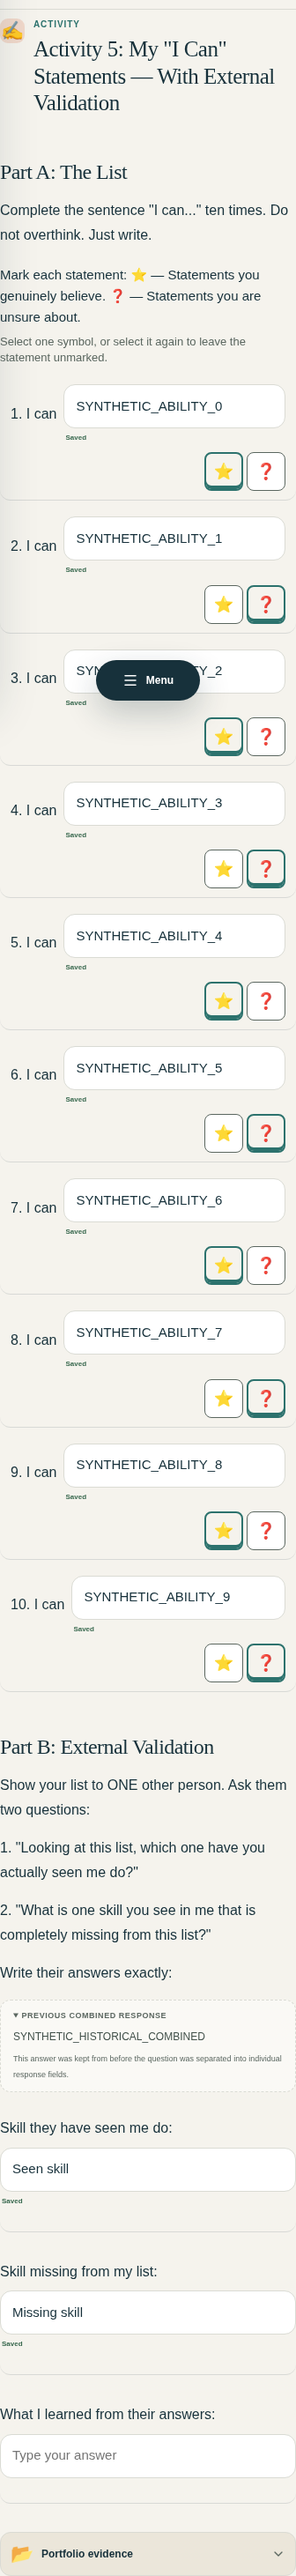
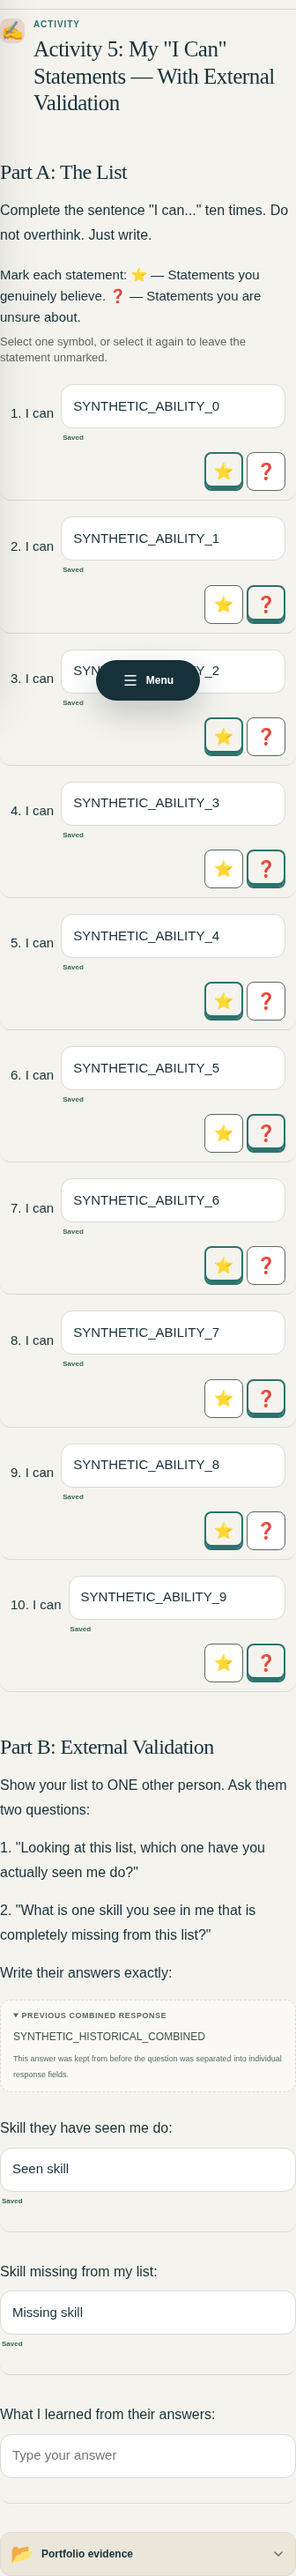
Record final scaling, accessibility and authenticated staging verification

diff --git a/docs/learner-hardening/VERIFICATION.md b/docs/learner-hardening/VERIFICATION.md
@@ -1,14 +1,14 @@
 # Proposed learner workbook hardening — verification and acceptance record
 
-Implementation: `7dbfb1b7851f4e2f1fa3745b754521ad69320a03` (semantic mapping completed at `87ed1bd`), based on merged `main` `ab52273eae7d5d459c77e30a9d7bfdea8d8540ff`. PR: [#91](https://github.com/PDthePlug/Applied-Commerce-/pull/91). This record distinguishes implementation verification from owner curriculum acceptance. No production application merge or deployment has been performed.
+Implementation: `b59dec5794117bf02dc22d4464e365112ea8ac17` (semantic mapping completed at `87ed1bd`), based on merged `main` `ab52273eae7d5d459c77e30a9d7bfdea8d8540ff`. PR: [#91](https://github.com/PDthePlug/Applied-Commerce-/pull/91). This record distinguishes implementation verification from owner curriculum acceptance. No production application merge or deployment has been performed.
 
 ## Coverage and review
 
 The [interaction inventory](interaction-inventory.json) covers all 399 effective reader units and 20,742 blocks. The runtime verifier independently confirms 395 lessons, four assessments and all 20,766 original compiled blocks. These counts have different scopes: the unchanged Grade 9 Term 2 reader normalisation removes editorial metadata before display. No source blocks were removed by this change.
 
-The [defect register](defect-register.json) contains 1,220 findings, including the unresolved editorial cases. It records source text, original IDs/index, grade/term/lesson, route, classification, severity, correction, response impact and review outcome. Findings can overlap at one block; their count is not a count of defective lessons. The [wrap register](wrap-coverage.json) includes all 395 lesson IDs, source references/fingerprints, original closing disposition, placement and next lesson. All 395 drafts have different takeaways, manually drafted against the source concepts/objectives. The shared component has no generic-copy fallback. Four assessments retain their assessment flow without a lesson wrap.
+The [defect register](defect-register.json) contains 1,221 findings, including the unresolved editorial cases. It records source text, original IDs/index, grade/term/lesson, route, classification, severity, correction, response impact and review outcome. Findings can overlap at one block; their count is not a count of defective lessons. The [wrap register](wrap-coverage.json) includes all 395 lesson IDs, source references/fingerprints, original closing disposition, placement and next lesson. All 395 drafts have different takeaways, manually drafted against the source concepts/objectives. The shared component has no generic-copy fallback. Four assessments retain their assessment flow without a lesson wrap.
 
-The explicit light theme also had a desktop lesson-map contrast failure, corrected with a slightly darker muted colour scoped to that rail. The source review identified 383 deeper sections, 315 source-directed deeper reflections, 50 additional explicit Architect's Questions outside those sections, seven Final Checkpoints with lost task context, ten missing confidence annotations, five circling tasks, four skill categories and 29 actually rendered duplicate instruction inputs. Six distinct adjacent written tasks remain editable, including a full cover letter, personal statement and investment red line. Three time projections now have separate destinations at the original block. Fifteen embedded conceptual questions remain reading pending educational review; none was made a compulsory answer.
+The explicit light theme also had a desktop lesson-map contrast failure, corrected with a slightly darker muted colour scoped to that rail. Final screenshot review caught fixed-size “I can” prefixes beside enlarged answers; they now use the same text-scale token, with a browser assertion at 200%. The source review identified 383 deeper sections, 315 source-directed deeper reflections, 50 additional explicit Architect's Questions outside those sections, seven Final Checkpoints with lost task context, ten missing confidence annotations, five circling tasks, four skill categories and 29 actually rendered duplicate instruction inputs. Six distinct adjacent written tasks remain editable, including a full cover letter, personal statement and investment red line. Three time projections now have separate destinations at the original block. Fifteen embedded conceptual questions remain reading pending educational review; none was made a compulsory answer.
 
 Every lesson received a source/closing/copy review and automated structural/source-identity checks. Browser interaction reviews target the mandatory cases and representative complex work in every grade; this is not a claim that a human educator has individually moderated 395 wraps. Owner moderation of the TSV copy remains required.
 
@@ -22,10 +22,10 @@ The actual original/proposed field census is retained in [rendered-before.json](
 | Node regressions | 240 tests, including all wraps, deeper panels, stable/legacy keys, final checkpoints, named questions and 29 retired inputs | PASS |
 | Block identity Python tests | 2 tests | PASS |
 | TypeScript, ESLint, production builds | Local backend plus isolated staging build | PASS |
-| Focused workbook browser suite | 24 journeys across 320, 360, 430, 768, 1280, 1920px; semantic revision `87ed1bd` | PASS |
+| Focused workbook browser suite | 24 journeys across 320, 360, 430, 768, 1280, 1920px; final application revision `b59dec5` | PASS |
 | Focused WCAG audit | 36 actual browser axe scans; three high-risk lessons × six widths × light/dark; 200% text | PASS: zero violations |
 | Touch interaction | Six real touch-emulation journeys at 320/360/430, light/dark | PASS: select/change/clear/reload preserves text |
-| Existing browser regressions | 252 journeys; [CI evidence](https://github.com/PDthePlug/Applied-Commerce-/actions/runs/41479789584) | PASS: final application revision |
+| Existing browser regressions | 252 journeys; [CI evidence](https://github.com/PDthePlug/Applied-Commerce-/actions/runs/41482135977) | PASS: final application revision |
 | Additional UI audit | 390 journeys across six widths; implementation `b6d516b` | PASS |
 | Full reader browser census | All 399 units; 36 six-width screenshots; semantic revision `87ed1bd` | PASS: zero page errors / overflow |
 | Genuine role/RLS HTTP checks | 37 staging checks, including revision/session/RLS denials | PASS |
@@ -33,7 +33,7 @@ The actual original/proposed field census is retained in [rendered-before.json](
 | Hosted contextual Teacher View | Seven lessons; 58 navigation targets; 168 layouts; six role checks; three persistence outcomes | PASS |
 | Teacher PDF text | 14 integrated/standalone PDFs; 684 expected fields | PASS: zero missing fields; two educator-review PDFs also retain readable markers |
 
-The final contrast correction changes one scoped CSS variable only. Earlier full-curriculum and focused workbook results retain their exact semantic-revision scope; the new accessibility, touch, CI and authenticated staging checks cover the final application revision.
+The final presentation corrections adjust the scoped lesson-map colour and annotated-statement text scaling. Full-curriculum census results retain their exact semantic-revision scope; the focused workbook, accessibility, touch, CI and authenticated staging checks cover the final application revision.
 
 ### Route × viewport × role matrix
 

diff --git a/docs/learner-hardening/README.md b/docs/learner-hardening/README.md
@@ -8,7 +8,7 @@ This is a proposed programme-wide change against merged `main` **ab52273eae7d5d4
 2. **Deepening recursion reset context.** Questions such as Grade 8 Lesson 16 block `394c5cbe20d55e4fefd81669-1` became plain paragraphs. A source-checked decision registry now distinguishes conceptual explanations from source-directed reflections, including the Architect's and Launcher's Questions. A further 50 explicit Architect's Questions outside these panels use the same source-bound model. These responses remain optional; completion does not depend on them. Seven authored “Final Checkpoint” headings had also been compiled as ordinary sections; the shared task-context model now recognises them as checkpoints, preserving their block IDs and earlier combined answers while supplying correctly numbered parts.
 3. **Written controls were inferred from punctuation and sentence starts.** This created generic boxes for instructions and hid question-shaped list items. Reviewed overrides supply the Grade 8 circle-map entries, the Grade 11 hiring evaluation and four Grade 9 skill categories. Single-blank checkpoint labels share the same numbered layout; their original blank slots remain unchanged. A reviewed pass through all 59 colon-ended parents followed by authored blanks removes 29 actually rendered duplicate controls, keeps six distinct written tasks (including the cover letter, personal statement and investment red line), and separates three time projections at their original block. Dedicated-field instructions no longer ask for the same text twice. Short trailing directions such as “Write honestly” become helper copy while their historical slots remain available.
 4. **A number was a separate block in several response paths.** `QuestionHeading` keeps numbering and wording in one paragraph for structured home work, reflections and checkpoints. It changes presentation without changing the original field slots. Formal assessment numbers/subparts remain authored.
-5. **Authored marking had no independent destination.** Each of the ten Personal Efficacy rows now retains `blank-0` and adds `annotation-confidence`. Toggle buttons are exclusive and clearable, have 44px targets, visible selection/focus and accessible names. One activity legend replaces per-row explanations. Reviewed circling tasks use native selection; skill categories use bounded multi-selection. Existing ranking/rating/table controls remain.
+5. **Authored marking had no independent destination.** Each of the ten Personal Efficacy rows now retains `blank-0` and adds `annotation-confidence`. Toggle buttons are exclusive and clearable, have 44px targets, visible selection/focus and accessible names. One activity legend replaces per-row explanations. Statement labels scale with the answer text at enlarged reading sizes. Reviewed circling tasks use native selection; skill categories use bounded multi-selection. Existing ranking/rating/table controls remain.
 6. **There was no universal concluding contract.** 75 Grade 9 checklists and 13 generic workshop closings were partial wraps; 307 lessons had no explicit wrap. Fourteen of those already had a final “Well Done”, “A Word Before You Go” or teacher closing; those are incorporated with their original headings, leaving 293 without an explicit final closing. All 395 now have two individually drafted takeaways and a practical connection in the TSV registry. Existing authored closing material remains inside the same wrap, including its controls and original keys. A source-based next-lesson reference crosses term boundaries and excludes assessments. There is no generated final response or generic fallback.
 
 ## Inspectable evidence
